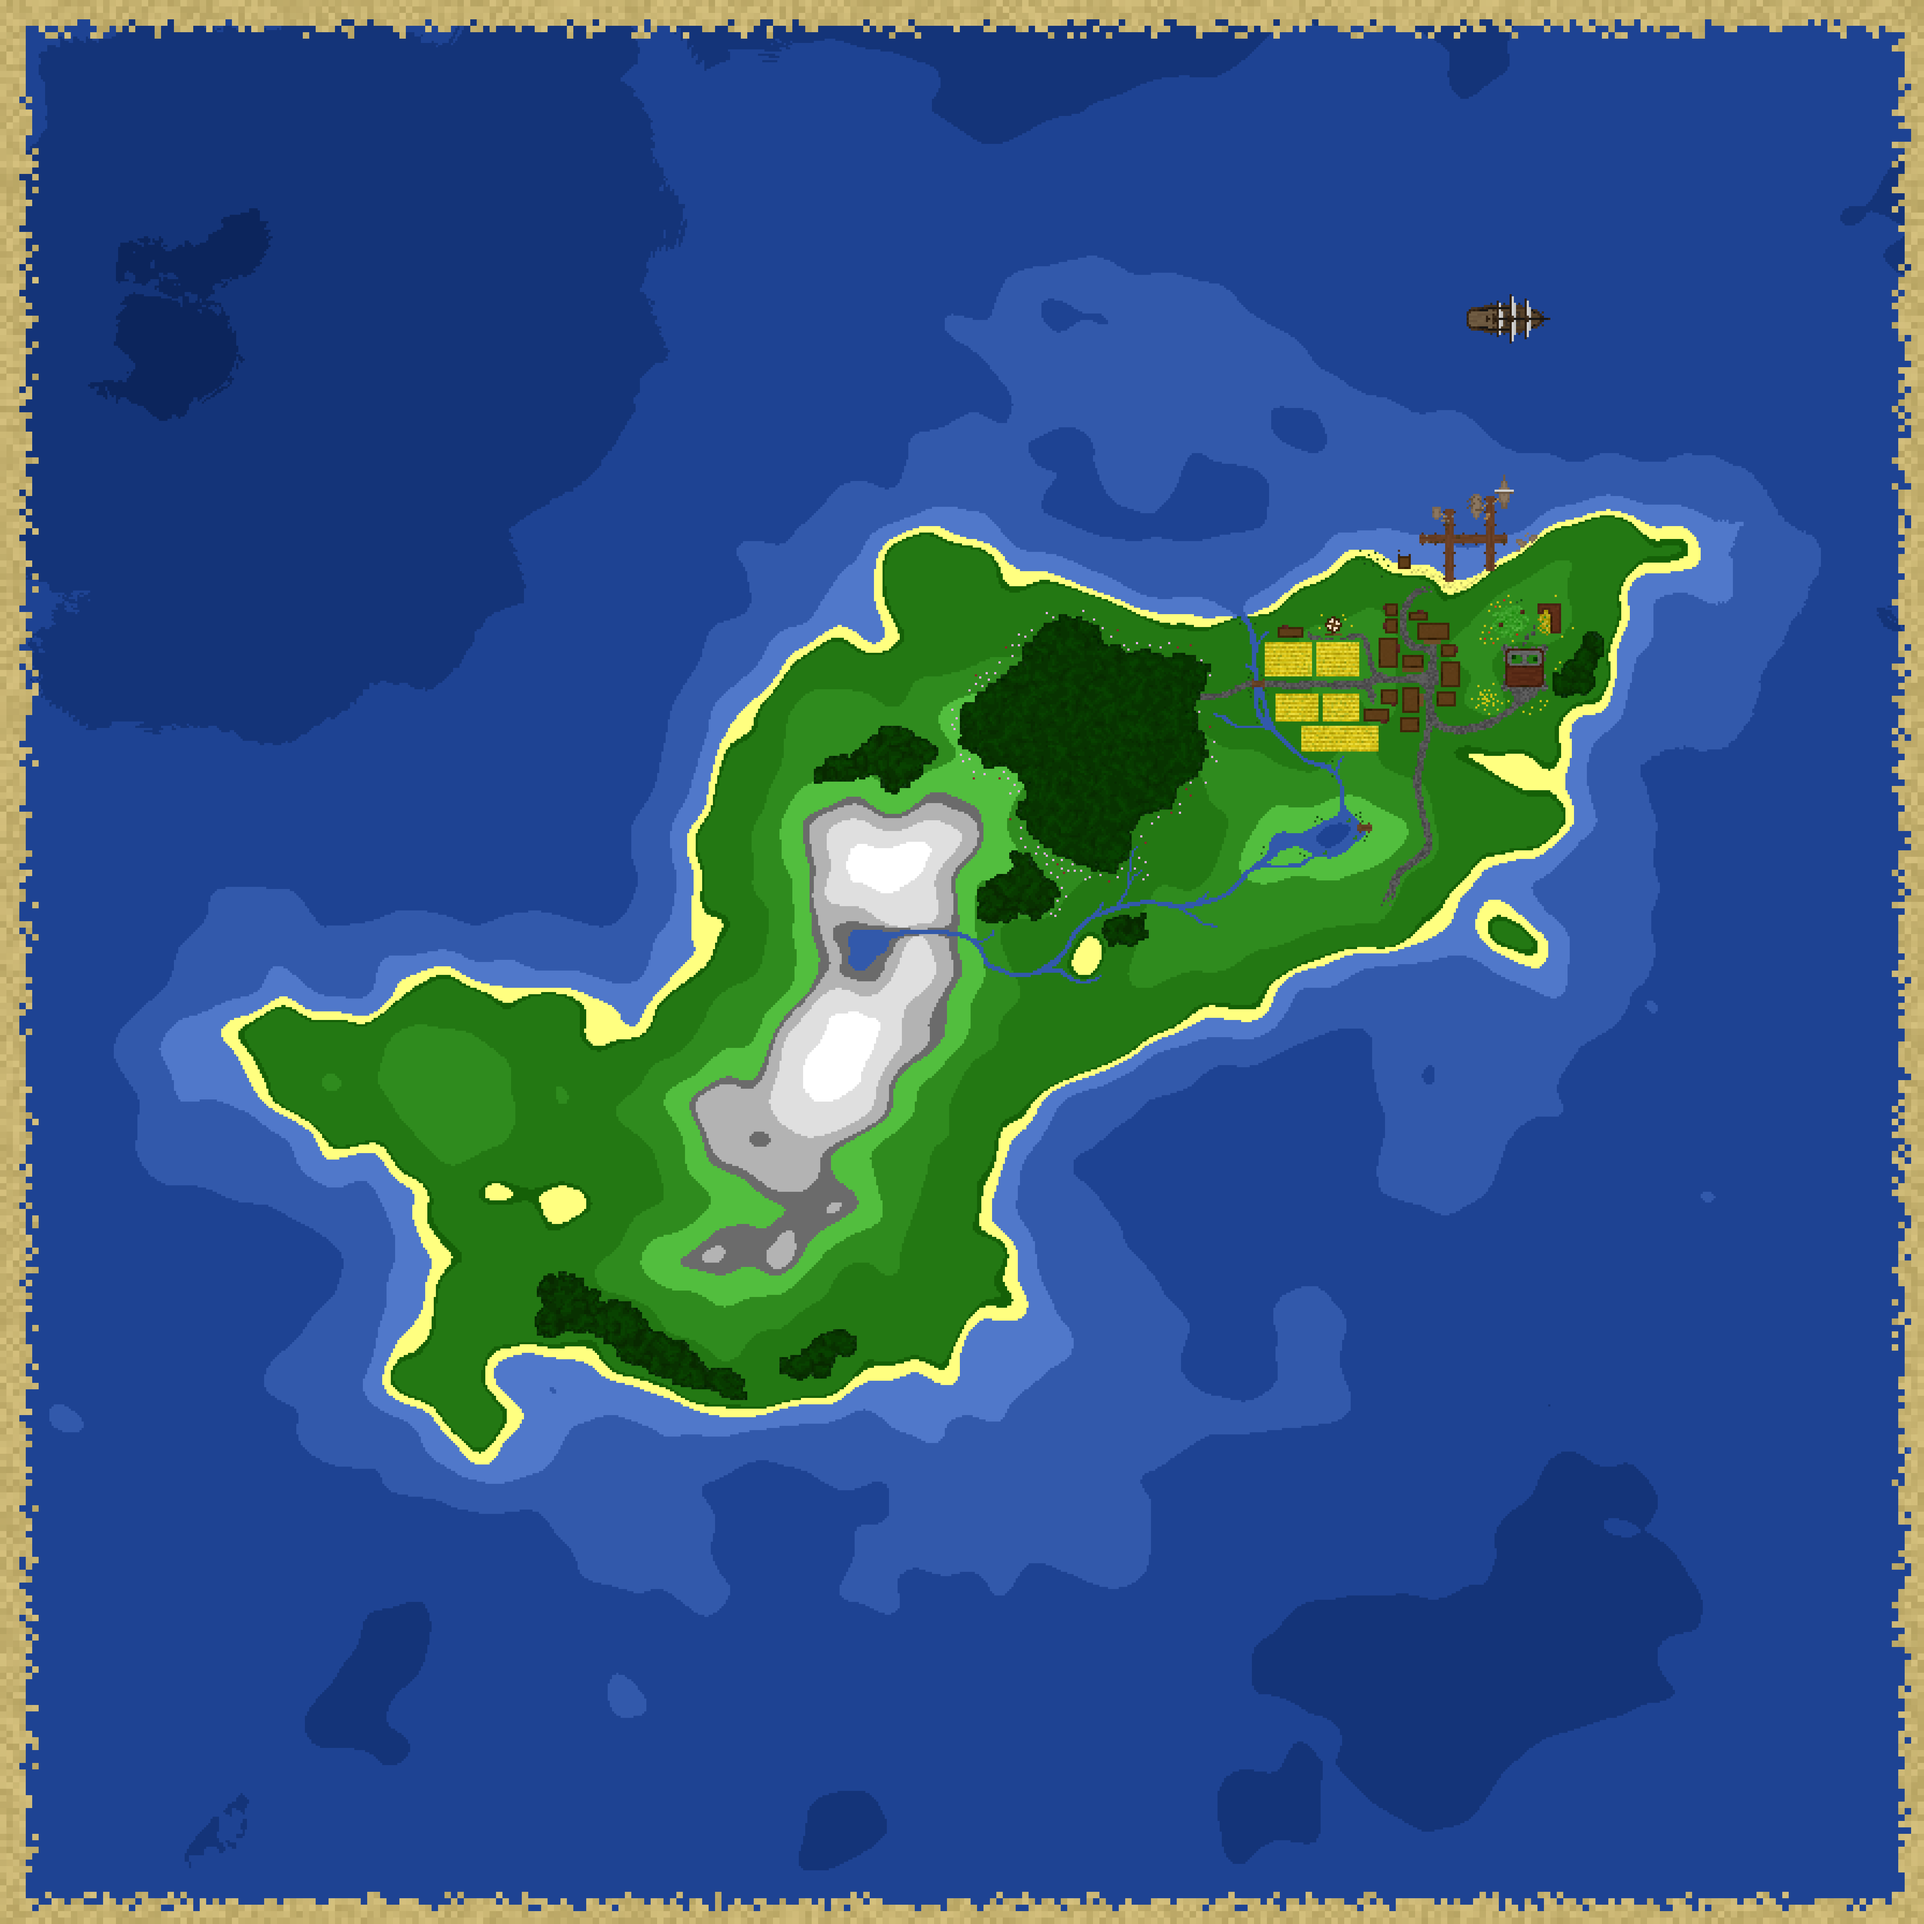
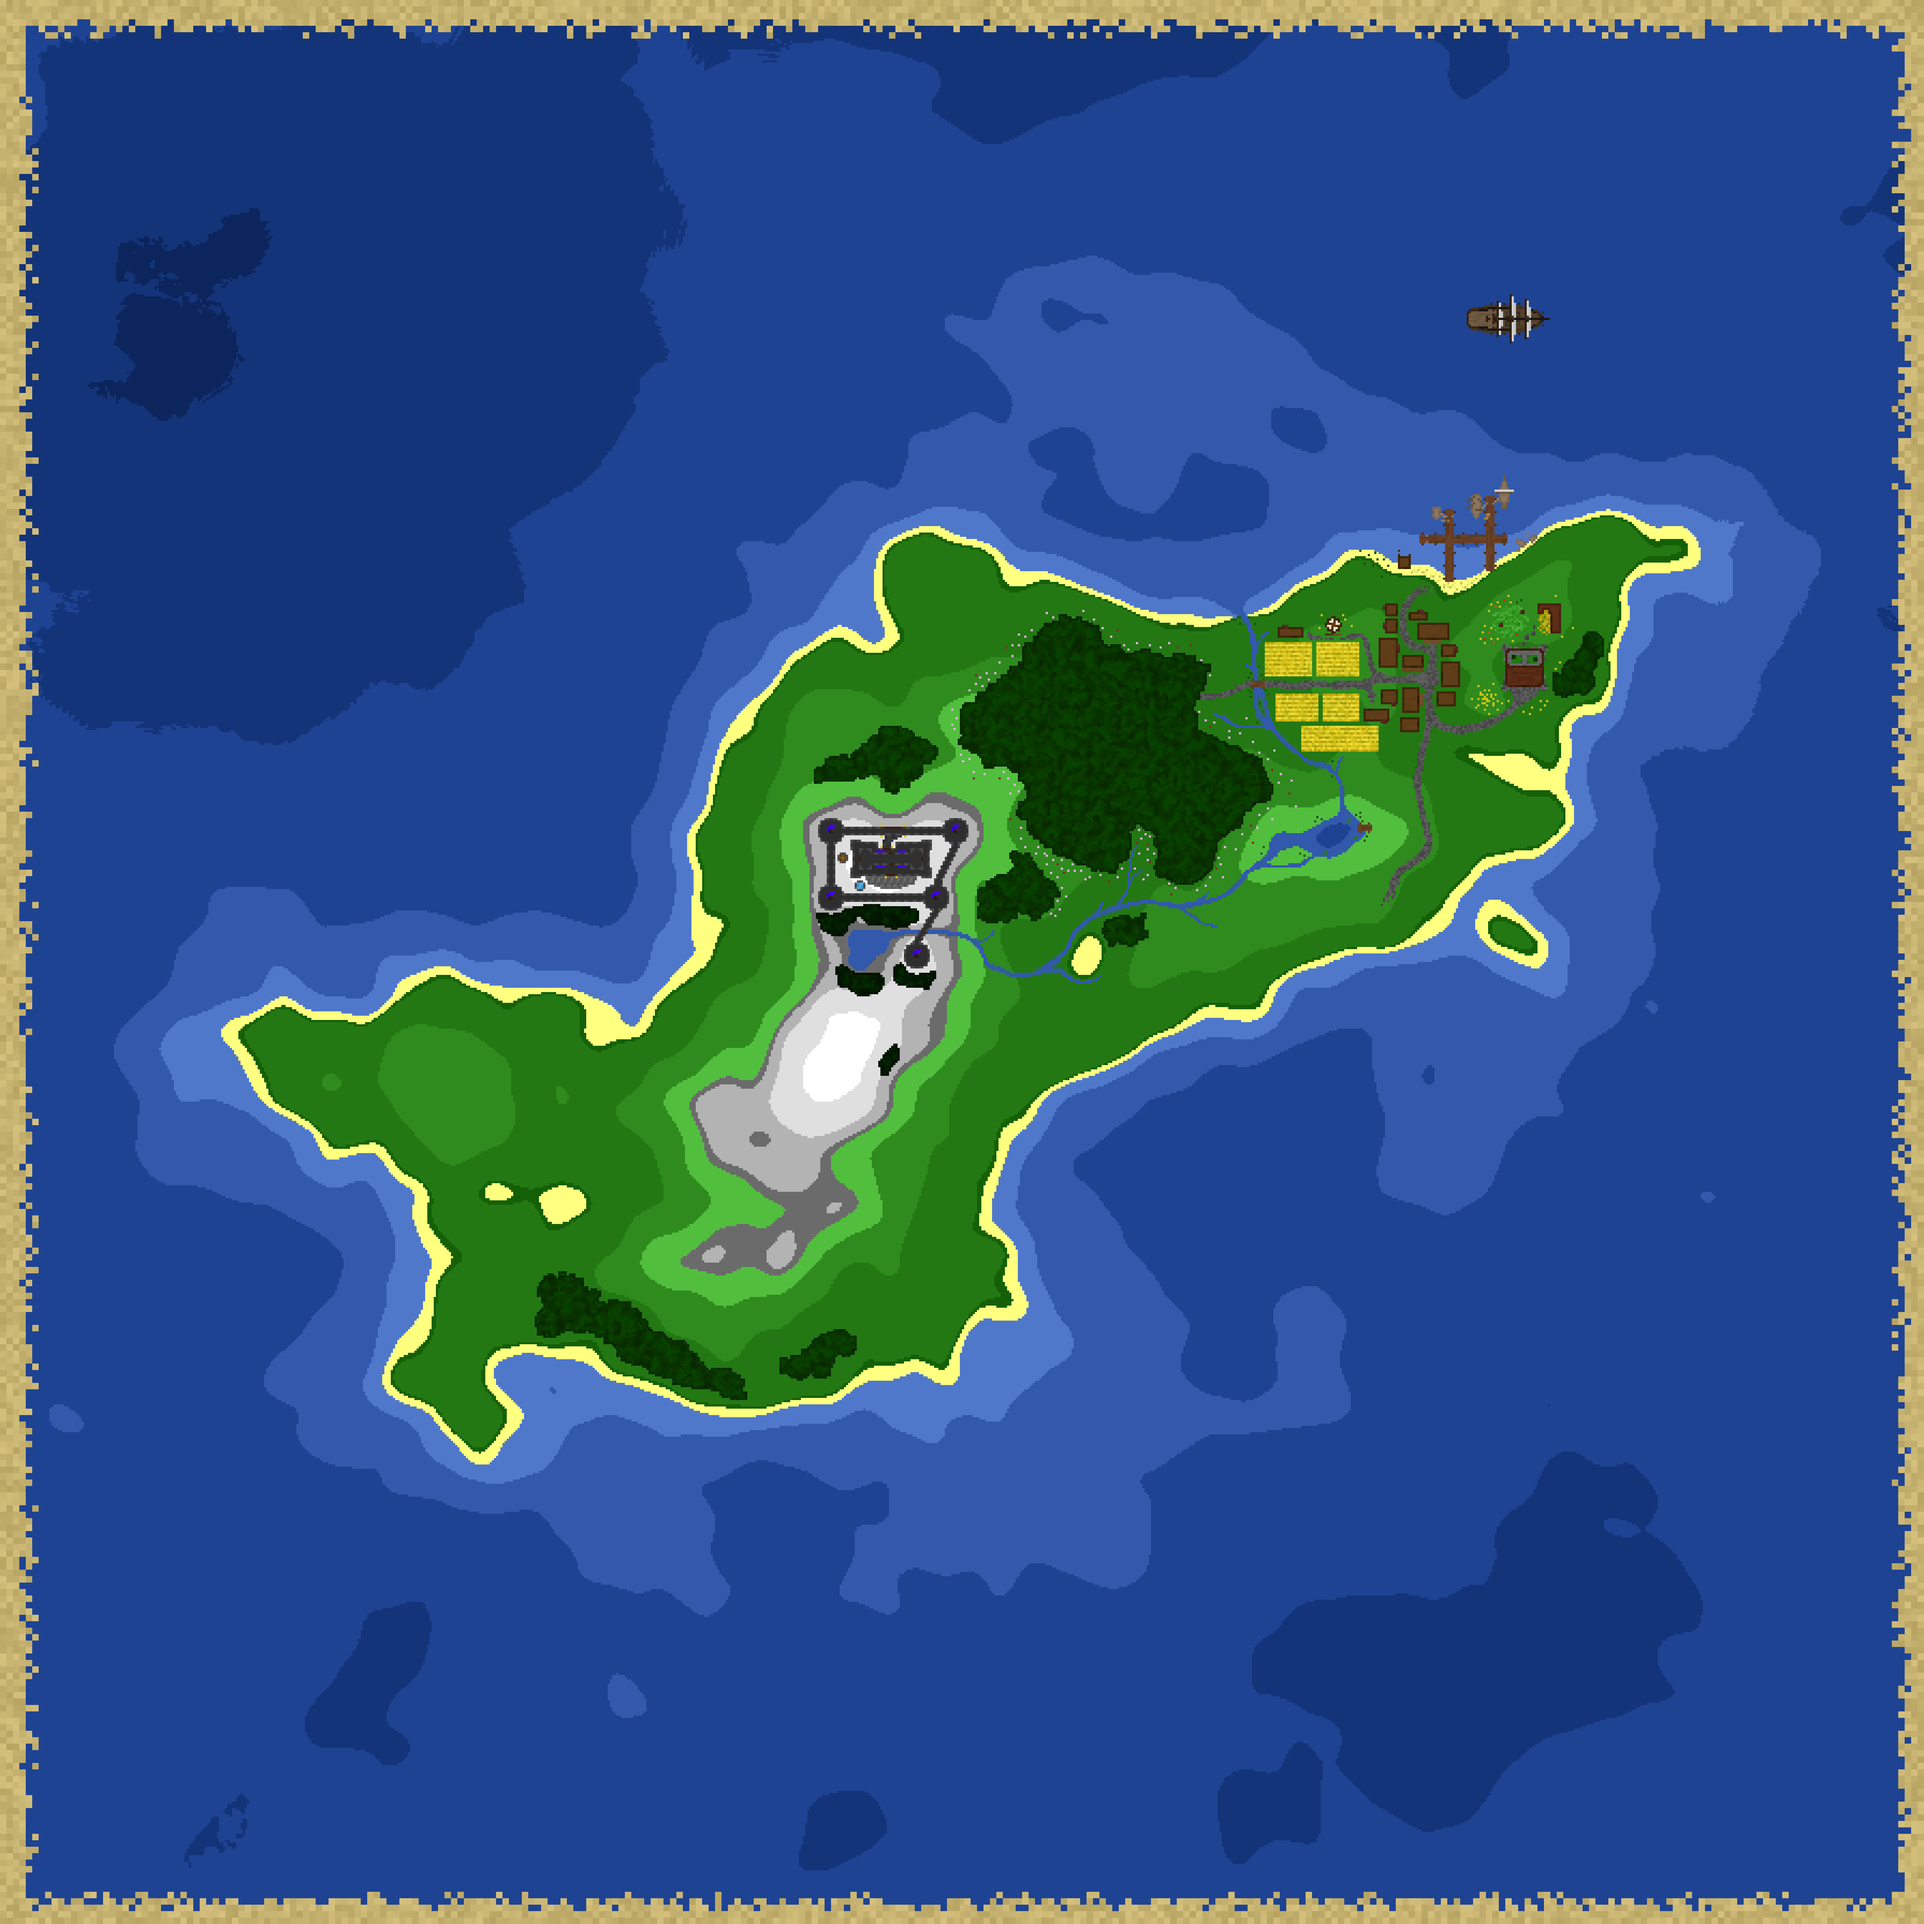
Update map

Changed region(s): [[0.4062, 0.4062, 0.5, 0.5625], [0.5938, 0.375, 0.6562, 0.4688]]

diff --git a/storytime.html b/storytime.html
@@ -20,6 +20,25 @@
 </head>
 
 <body>
+	<div id="text">Not to scale.</div>
+	<style type="text/css">
+		#text {
+			color: black;
+			background: rgba(255, 255, 255, 0.75);
+			font-family: "Josefin Sans", sans-serif;
+			font-size: 20px;
+			position: absolute;
+			bottom: 0;
+			left: 0;
+			padding-left: 0.2%;
+			padding-right: 0.4%;
+			padding-top: 0.4%;
+			padding-bottom: 0.1%;
+			border-top-right-radius: 10px;
+			z-index: 1000;
+		}
+	</style>
+
 	<div id="map"></div>
 	<script src="js/leaflet.js"></script>
 </body>

diff --git a/js/leaflet.js b/js/leaflet.js
@@ -24,6 +24,7 @@ var poi = [
 	{x: 703, y: 288, text: "Guild Training"},
 	{x: 684, y: 250, text: "Docks"},
 	{x: 510, y: 340, text: "Cleavewood Forest"},
+	{x: 415, y: 400, text: "Newberg Castle"},
 ]
 poi.sort(function(a, b) {return a.y - b.y});
 
